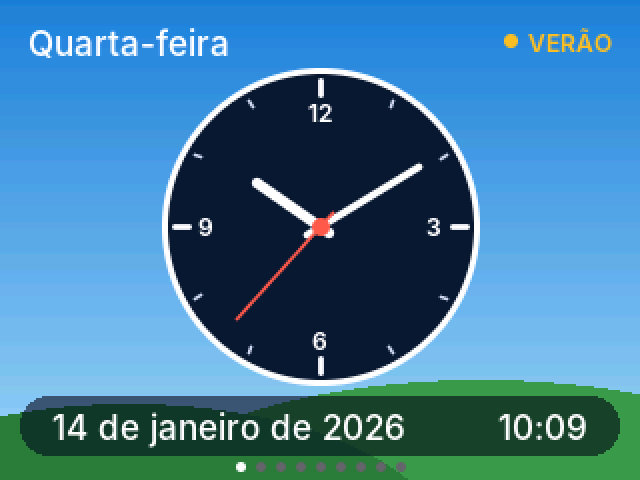
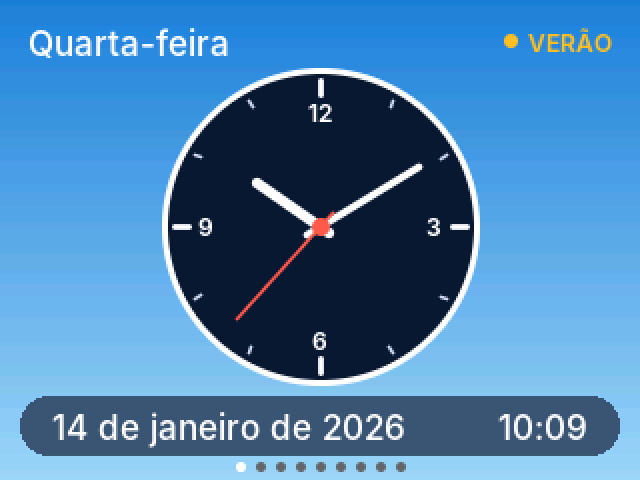
Remove a paisagem do fundo da tela do Relógio
Claude-Session: https://claude.ai/code/session_013r1tWBcHcwZwkaXJ8MnPzY

Changed region(s): [[0.0, 0.7812, 1.0, 1.0]]

diff --git a/src/ui/screen_clock.cpp b/src/ui/screen_clock.cpp
@@ -29,23 +29,17 @@ const char* seasonName(const tm& now, bool southernHemisphere) {
   return kSeasons[southernHemisphere ? index : (index + 2) % 4];
 }
 
-// Retorna o quanto a paisagem deve escurecer
-float drawSkyForHour(LovyanGFX& gfx, int hour) {
+void drawSkyForHour(LovyanGFX& gfx, int hour) {
   if (hour >= 6 && hour < 8) {
     fillBackground(gfx, 0x35508Fu, 0xF2A66Bu);
-    return 0.3f;
-  }
-  if (hour >= 8 && hour < 17) {
+  } else if (hour >= 8 && hour < 17) {
     fillBackground(gfx, color::kDayTop, color::kDayBottom);
-    return 0.0f;
-  }
-  if (hour >= 17 && hour < 19) {
+  } else if (hour >= 17 && hour < 19) {
     fillBackground(gfx, 0x3B2A6Bu, 0xF08A5Du);
-    return 0.3f;
+  } else {
+    fillBackground(gfx, color::kNightTop, color::kNightBottom);
+    drawStars(gfx, 45);
   }
-  fillBackground(gfx, color::kNightTop, color::kNightBottom);
-  drawStars(gfx, 45);
-  return 0.6f;
 }
 
 void drawHand(LovyanGFX& gfx, int cx, int cy, float turns, int length, float thickness, uint32_t tint) {
@@ -93,7 +87,7 @@ void drawFace(LovyanGFX& gfx, int cx, int cy, int radius, const tm& now) {
 }  // namespace
 
 void drawClockScreen(LovyanGFX& gfx, const tm& now, bool southernHemisphere) {
-  drawHills(gfx, drawSkyForHour(gfx, now.tm_hour));
+  drawSkyForHour(gfx, now.tm_hour);
   drawHeader(gfx, kWeekdays[now.tm_wday % 7], seasonName(now, southernHemisphere), color::kNeutral, true);
 
   const Rect footer = drawFooterPanel(gfx);
